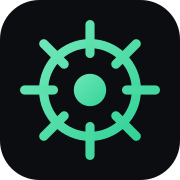
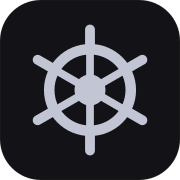
mute the palette, and a wheel that reads at 20px
"The UI still looks vibecoded, mute the green neon." Screenshotting both main
screens at 390x844 said what that meant:

- three neon dots on the first screen: --emerald at full chroma was the
  brightest thing on a near-black page, spent on "online", the state a machine
  is in almost always. Now oklch(0.74 0.068 165), a sage that says alive
  without being the first thing you see, so amber - "a session is waiting for
  you" - is the loudest colour again, as the sheet's own comment says it
  should be
- the settings button was a full-colour cyan gear, because U+2699 renders from
  the emoji font on most systems. Inline SVG now
- nine engine marks at full vendor chroma read as a bag of sweets: each is at
  about two thirds, tiles from 14-16% to 10-11%
- every row was an outlined card; the fill alone says "row" and the hairline
  returns on hover
- "New session" was a full-width tinted banner above the list it belongs to.
  It is a row now, with a + where each row keeps its engine mark, so its label
  starts on the same line as the titles under it
- `external` was the first thing an ellipsis ate, because the tag sat inside
  the truncating title. The title truncates; the tags do not
- opencode rows showed a wall of JSON where the model goes: it stores model as
  {"id":…,"providerID":…,"variant":…} and inventory passed it through whole

The logo: the old mark was a neon gradient wheel with eight spokes and eight
[…]

diff --git a/apps/web/src/styles.css b/apps/web/src/styles.css
@@ -39,15 +39,22 @@
   --primary-t: oklch(0.635 0.185 264);
   --primary-h: oklch(0.645 0.185 264);
   --primary-q: oklch(0.755 0.12 264);
-  --amber:     #fbbf24;
-  --sky:       #7dd3fc;
-  --emerald:   #34d399;
-  --red:       #f87171;
+  --amber:     #e8b23f;
+  --sky:       #8ec6e8;
+  /* Muted on purpose. At full chroma this was the brightest thing on a
+     near-black page, and it was spent on "online" - the state a machine is in
+     almost always. Three neon dots on the first screen read as decoration,
+     which made the amber that means "answer me" just one more colour. */
+  --emerald:   oklch(0.74 0.068 165);
+  --red:       #e88a8a;
 
-  --claude:    #e8a27a;
-  --codex:     #c7d2fe;
-  --opencode:  #c4b5fd;
-  --devin:     #a7f3d0;
+  /* Each engine's own colour, at about two thirds the chroma it ships with.
+     Recognisable at 26px, and a list of nine of them is a list, not a bag of
+     sweets. */
+  --claude:    #d3a186;
+  --codex:     #b9c1d6;
+  --opencode:  #b3abd8;
+  --devin:     #a3cdb9;
 
   /* A type scale, so sizes are chosen from a set rather than invented at
      each call site. The old sheet had sixteen distinct font sizes between
@@ -225,11 +232,14 @@ code, pre, kbd { font-family: var(--mono); }
 .row.active .rt { font-weight: 500; }
 /* A card row: used where the row is the content of the screen rather than a
    line in a list of settings. */
+/* No outline. Nine bordered cards down a screen is nine rectangles competing
+   with their own contents; the fill alone is enough to say "row", and the
+   hairline comes back on hover where it means something. */
 .row.tall {
   min-height: 46px; padding: 7px 10px; background: var(--card);
-  border: 1px solid var(--line); border-radius: var(--radius);
+  border: 1px solid transparent; border-radius: var(--radius);
 }
-.row.tall:hover:not(:disabled) { background: var(--raised); border-color: var(--line-2); }
+.row.tall:hover:not(:disabled) { background: var(--raised); border-color: var(--line); }
 .row.tall.active { border-color: color-mix(in srgb, var(--primary) 55%, transparent); background: color-mix(in srgb, var(--primary) 8%, var(--card)); }
 .rows.cards { gap: 5px; }
 .row .grow { flex: 1; min-width: 0; display: flex; flex-direction: column; gap: 1px; }
@@ -238,6 +248,10 @@ code, pre, kbd { font-family: var(--mono); }
   white-space: nowrap; overflow: hidden; text-overflow: ellipsis; color: var(--text);
   letter-spacing: -0.006em;
 }
+/* The title truncates; the tags beside it do not. They were inside the
+   ellipsis, so "external" was the first thing to disappear off a long name -
+   the one word that said what the row even was. */
+.row .rt .rt-text { min-width: 0; overflow: hidden; text-overflow: ellipsis; white-space: nowrap; }
 .row .rt .dim { color: var(--mutedfg); font-weight: 400; }
 .row .rm {
   font-size: var(--t-meta); color: var(--mutedfg); line-height: 1.35;
@@ -256,13 +270,13 @@ code, pre, kbd { font-family: var(--mono); }
 /* The marks are inline SVG inheriting currentColor, so each engine's tint
    above colours its logo with nothing further to set. */
 .mark svg { display: block; }
-.mark.claude   { background: color-mix(in srgb, var(--claude) 16%, transparent);   color: var(--claude); }
-.mark.codex    { background: color-mix(in srgb, var(--codex) 14%, transparent);    color: var(--codex); }
-.mark.opencode { background: color-mix(in srgb, var(--opencode) 16%, transparent); color: var(--opencode); }
-.mark.devin    { background: color-mix(in srgb, var(--devin) 14%, transparent);    color: var(--devin); }
-.mark.shell    { background: color-mix(in srgb, var(--emerald) 14%, transparent);  color: var(--emerald); }
+.mark.claude   { background: color-mix(in srgb, var(--claude) 11%, transparent);   color: var(--claude); }
+.mark.codex    { background: color-mix(in srgb, var(--codex) 10%, transparent);    color: var(--codex); }
+.mark.opencode { background: color-mix(in srgb, var(--opencode) 11%, transparent); color: var(--opencode); }
+.mark.devin    { background: color-mix(in srgb, var(--devin) 10%, transparent);    color: var(--devin); }
+.mark.shell    { background: color-mix(in srgb, var(--emerald) 11%, transparent);  color: var(--emerald); }
 
-.mdot { width: 8px; height: 8px; border-radius: 50%; flex: none; margin: 0 4px; }
+.mdot { width: 7px; height: 7px; border-radius: 50%; flex: none; margin: 0 4px; }
 .mdot.on { background: var(--emerald); }
 .mdot.off { background: rgb(255 255 255 / 14%); }
 .sdot { width: 9px; height: 9px; border-radius: 50%; flex: none; margin: 0 3px; display: inline-block; }
@@ -349,11 +363,35 @@ button.primary {
    amber, meaning "a session needs you", should be the loudest colour here,
    and it cannot be if a button that is always present outshines it. */
 button.primary.big {
-  padding: 11px 16px; margin-top: 0; margin-bottom: 10px;
-  background: color-mix(in srgb, var(--primary) 20%, var(--card));
-  border: 1px solid color-mix(in srgb, var(--primary) 46%, transparent);
+  padding: 9px 16px; margin-top: 0; margin-bottom: 10px;
+  background: color-mix(in srgb, var(--primary) 16%, var(--card));
+  border: 1px solid color-mix(in srgb, var(--primary) 34%, transparent);
   color: var(--primary-q);
-  box-shadow: inset 0 1px rgb(255 255 255 / 5%);
+}
+
+/* The machine screen is a list, and its one action belongs to that list
+   rather than sitting above it as a banner: the same height, the same left
+   edge, the same radius, with a + where each row keeps its engine mark - so
+   the label starts on the same line as every title underneath it. */
+.action {
+  display: flex; align-items: center; gap: 10px; width: 100%;
+  min-height: 46px; padding: 7px 10px; margin-bottom: 10px;
+  border-radius: var(--radius); text-align: left;
+  background: color-mix(in srgb, var(--primary) 8%, var(--card));
+  border: 1px solid color-mix(in srgb, var(--primary) 18%, transparent);
+  color: var(--text); font-size: var(--t-body); font-weight: 500;
+  transition: background 0.12s var(--ease), border-color 0.12s var(--ease);
+}
+.action:hover:not(:disabled) {
+  background: color-mix(in srgb, var(--primary) 14%, var(--card));
+  border-color: color-mix(in srgb, var(--primary) 30%, transparent);
+}
+.action:disabled { opacity: 0.45; }
+.action .plus {
+  width: 26px; height: 26px; border-radius: 7px; flex: none;
+  display: inline-flex; align-items: center; justify-content: center;
+  background: color-mix(in srgb, var(--primary) 20%, transparent);
+  color: var(--primary-q); font-size: 16px; line-height: 1; font-weight: 400;
 }
 button.primary.big:hover:not(:disabled) {
   filter: none;

diff --git a/apps/web/src/App.tsx b/apps/web/src/App.tsx
@@ -66,6 +66,19 @@ const Terminal = lazy(() => import('./Terminal').then((m) => ({ default: m.Termi
 const engineOf = (id?: string) => ENGINE[id ?? ''] ?? { label: id ?? 'agent', cls: 'other' };
 
 /**
+ * Settings, drawn rather than typed. `⚙` is U+2699, which most systems render
+ * from the emoji font - so the quietest button on the bar came out as a
+ * full-colour cyan gear, the brightest thing on the screen.
+ */
+const Sliders = () => (
+  <svg width="17" height="17" viewBox="0 0 24 24" fill="none" stroke="currentColor"
+       strokeWidth="1.8" strokeLinecap="round" aria-hidden="true">
+    <path d="M4 7h10M18 7h2M4 17h4M12 17h8" />
+    <circle cx="16" cy="7" r="2.2" /><circle cx="10" cy="17" r="2.2" />
+  </svg>
+);
+
+/**
  * An account is a CLI plus the home directory (or credential) it runs with.
  * A shell full of aliases yields the same account many times over, each with
  * different flags - `d`, `codexp`, `codexpx` are all "Codex, personal". The
@@ -1062,14 +1075,14 @@ function EnvView({ client, env, wide, sessions, reload, onBack, onBrowse, onSett
           disabled={!env.online || opening}
           onClick={openTerminal}
         >{env.info.terminals === 'panes' ? '❯!' : '❯_'}</button>
-        <button className="iconbtn" title={`${env.name} settings`} onClick={onSettings}>⚙</button>
+        <button className="iconbtn" title={`${env.name} settings`} onClick={onSettings}><Sliders /></button>
       </div>
 
       <div className="scroll"><div className="pad column">
         {!env.online && <div className="banner warn">this machine is offline</div>}
 
-        <button className="primary big" disabled={!env.online} onClick={onBrowse}>
-          New session
+        <button className="action" disabled={!env.online} onClick={onBrowse}>
+          <span className="plus">+</span>New session
         </button>
 
         {groups.map(([title, list]) => list.length > 0 && (
@@ -1164,7 +1177,7 @@ function SessionRow({ s, onOpen, onRename, onArchive, onDelete }: {
         <EngineMark engine={eng.cls} />
         <span className="grow">
           <span className="rt">
-            {s.title}
+            <span className="rt-text">{s.title}</span>
             {adopted && <span className="tag">external</span>}
             {s.archived && <span className="tag">archived</span>}
           </span>

diff --git a/packages/connect/src/inventory.js b/packages/connect/src/inventory.js
@@ -210,6 +210,17 @@ function devin(home, account) {
 
 // ----------------------------------------------------------------- opencode
 
+/**
+ * opencode stores the model as a JSON object, not a name:
+ * `{"id":"…","providerID":"…","variant":"…"}`. Passed through whole, it landed
+ * in the session list where the model goes and filled the row with JSON.
+ */
+const opencodeModel = (v) => {
+  if (typeof v !== 'string' || !v) return null;
+  if (!v.startsWith('{')) return v;
+  try { return JSON.parse(v).id ?? null; } catch { return null; }
+};
+
 function opencode(home, account) {
   // opencode keeps a real database, so this is the one engine where we get
   // titles, cost and model without parsing anything.
@@ -238,7 +249,7 @@ function opencode(home, account) {
           title: r.title || 'opencode session',
           cwd: collapse(r.directory ?? HOME),
           updatedAt: Number(r.time_updated) || 0,
-          model: r.model,
+          model: opencodeModel(r.model),
         });
       }
       conn.close();

diff --git a/HANDOFF.md b/HANDOFF.md
@@ -742,6 +742,48 @@ Helm app" in the sidebar, once it has landed there); then it is in scope, with
 no redirect and nothing to click. The VM-hosted install remains the right one
 for a phone, which has no daemon of its own.
 
+### A quieter palette, and a wheel that reads at 20px
+
+The owner's words were "the UI still looks vibecoded, mute the green neon".
+Screenshotting the two main screens at 390x844 said what that meant:
+
+- **Three neon dots on the first screen.** `--emerald` at full chroma was the
+  brightest thing on a near-black page, and it was spent on *online* - the
+  state a machine is in almost always. Now `oklch(0.74 0.068 165)`, a sage
+  that says "alive" without being the first thing you see. Amber, which means
+  "a session is waiting for you", is the loudest colour again, which is what
+  the sheet's own comment says it should be.
+- **The settings button was a full-colour cyan gear.** `⚙` is U+2699 and most
+  systems render it from the emoji font, so the quietest button on the bar
+  came out brighter than anything else. It is an inline SVG now.
+- **Nine engine marks in nine saturated vendor colours** read as a bag of
+  sweets. Each is at about two thirds its shipped chroma and the tiles behind
+  them went from 14-16% to 10-11%: still recognisable at 26px, no longer a
+  competition.
+- **Every row was an outlined card.** Nine bordered rectangles down a screen
+  compete with their own contents; the fill alone says "row" and the hairline
+  comes back on hover.
+- **"New session" was a full-width tinted banner** above the list it belongs
+  to. It is now a row: the same height, the same left edge, and a `+` where
+  each row keeps its engine mark, so its label starts on the same line as
+  every title underneath it.
+- **`external` was the first thing an ellipsis ate.** The tag lived inside the
+  truncating title, so on a long name the one word saying what the row was
+  disappeared. The title truncates; the tags beside it do not.
+- **opencode rows showed a wall of JSON** where the model goes - it stores
+  `model` as `{"id":…,"providerID":…,"variant":…}` and the inventory reader
+  passed it through whole.
+
+**The logo.** The old mark was a neon gradient wheel with eight spokes and
+eight handles: at 32px it was a green asterisk, and at 20px in the sidebar it
+was mush. Four shapes were drawn and rendered at 20/32/48/128 to look at
+rather than to imagine - ring-and-nubs read as a sun, ring-and-dots as a
+camera aperture, four spokes as a crosshair. Six spokes with six handles is
+the one that reads as a ship's wheel at every size. One muted colour
+(`#c2c6d4`), no gradient, on a `#131317` tile with a hairline. Every asset was
+regenerated from it, including a maskable icon whose mark is pulled in to 78%
+so a circular mask cannot clip the handles.
+
 ### `helm app`, and the icon that was somebody else's
 
 The desktop app is a command now: `helm app` writes a desktop entry pointed at
